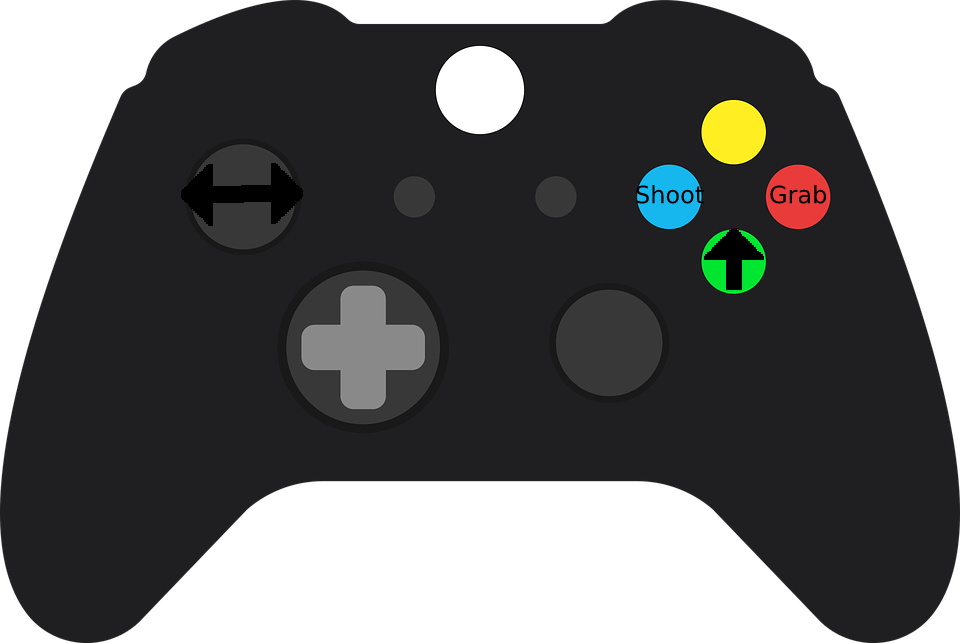
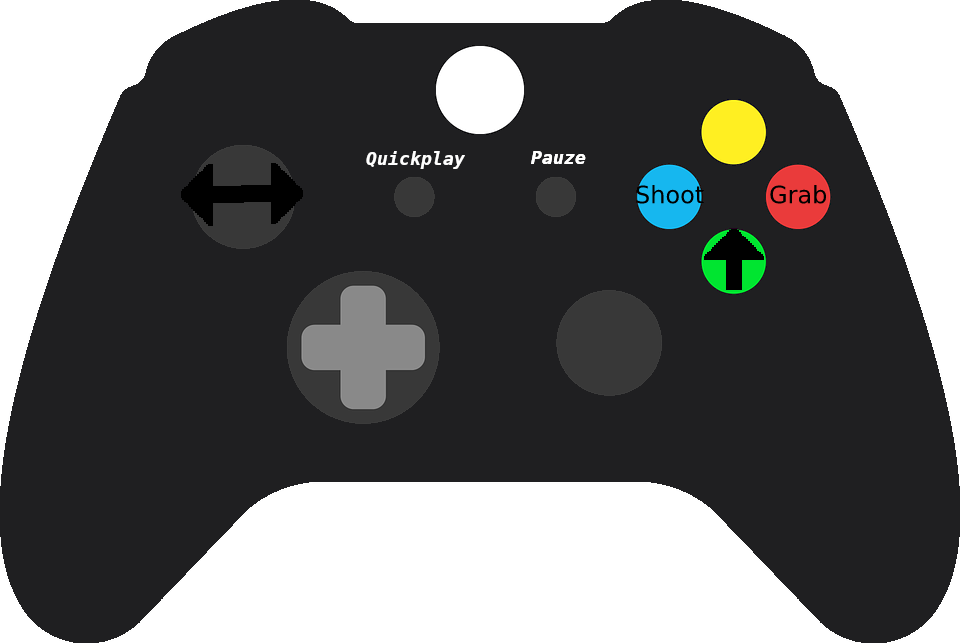
Added controller game start, toggable fps counter and fixed cheats (#85)
* Added dpad and gamespeed cheats

* Added controller shortcut to start a game

* Update cheat_system.cpp

* Added quickstart to image

* Added toggable fps counter and cheats on player 20

* Player 20 for gamespeed

* Fixed next level if intermission

* Fixed quickplay, submodule and fps counter false

* Improved start detection

* Updated graphics

diff --git a/lib/controllers/game_controller.cpp b/lib/controllers/game_controller.cpp
@@ -49,6 +49,7 @@ using namespace std::chrono_literals;
 #include "systems/cheat_system.hpp"
 #include "systems/hud_system.hpp"
 #include "systems/pause_system.hpp"
+#include "systems/ui_system.hpp"
 
 #include "entities/layers.hpp"
 #include "player_input.hpp"
@@ -85,6 +86,7 @@ using namespace std::chrono_literals;
 GameController::GameController() {
     this->should_quit = false;
     this->should_reset_delta_time = false;
+    this->should_draw_fps_counter = false;
 
     this->delta_time = 1;
 #ifdef PERFORMANCE_DEBUGGING
@@ -152,11 +154,12 @@ void GameController::setGameStateSystems() {
 
     // Menu
     state_systems->at(GameState::Menu)->push_back(std::make_unique<ClickSystem>(entityManager));
+    state_systems->at(GameState::Menu)->push_back(std::make_unique<UISystem>(entityManager, entityFactory, *this));
     state_systems->at(GameState::Menu)->push_back(std::make_unique<RenderingSystem>(entityManager, *engine->getRenderer()));
 
     // Lobby
     state_systems->at(GameState::Lobby)->push_back(std::make_unique<GameSpeedSystem>(entityManager, *delta_time_modifier.get()));
-    state_systems->at(GameState::Lobby)->push_back(std::make_unique<LobbySystem>(entityFactory, entityManager));
+    state_systems->at(GameState::Lobby)->push_back(std::make_unique<LobbySystem>(entityFactory, entityManager, *this));
     state_systems->at(GameState::Lobby)->push_back(std::make_unique<ClickSystem>(entityManager));
     state_systems->at(GameState::Lobby)->push_back(std::make_unique<MovementSystem>(*collision_detector, entityManager, entityFactory));
     state_systems->at(GameState::Lobby)->push_back(std::make_unique<PhysicsSystem>(*collision_detector, entityManager, *delta_time_modifier.get()));
@@ -256,10 +259,7 @@ void GameController::setupInput() {
     inputMapping[1][InputKeyCode::EKey_e] = PlayerInput::SHOOT;
     inputMapping[1][InputKeyCode::EKey_mouse_left] = PlayerInput::MOUSE_LEFT;
     inputMapping[1][InputKeyCode::EKey_mouse_right] = PlayerInput::MOUSE_RIGHT;
-    inputMapping[1][InputKeyCode::EKey_pagedown] = PlayerInput::SPEED_DOWN;
-    inputMapping[1][InputKeyCode::EKey_pageup] = PlayerInput::SPEED_UP;
-    inputMapping[1][InputKeyCode::EKey_home] = PlayerInput::SPEED_RESET;
-
+ 
     axis_mapping[InputKeyCode::EKey_w] = 1;
     axis_mapping[InputKeyCode::EKey_a] = -1;
     axis_mapping[InputKeyCode::EKey_s] = -1;
@@ -328,21 +328,29 @@ void GameController::setupInput() {
     inputMapping[4][InputKeyCode::EController_x] = PlayerInput::SHOOT;
     inputMapping[4][InputKeyCode::EController_b] = PlayerInput::GRAB;
     inputMapping[4][InputKeyCode::EController_start] = PlayerInput::PAUSE;
-
+    
     // Cheats
-    for (int i = 1; i <= 4; ++i) {
-        inputMapping[i][InputKeyCode::EKey_f1] = PlayerInput::SKIP_LEVEL;
-        inputMapping[i][InputKeyCode::EKey_f2] = PlayerInput::KILL_EVERYONE_EXCEPT_YOURSELF;
-        inputMapping[i][InputKeyCode::EKey_f3] = PlayerInput::INFINITE_HEALTH;
-        inputMapping[i][InputKeyCode::EKey_f4] = PlayerInput::RANDOM_WEAPON;
-        inputMapping[i][InputKeyCode::EKey_f5] = PlayerInput::LASER_WEAPON;
+    inputMapping[20][InputKeyCode::EKey_f1] = PlayerInput::SKIP_LEVEL;
+    inputMapping[20][InputKeyCode::EKey_f2] = PlayerInput::KILL_EVERYONE_EXCEPT_YOURSELF;
+    inputMapping[20][InputKeyCode::EKey_f3] = PlayerInput::INFINITE_HEALTH;
+    inputMapping[20][InputKeyCode::EKey_f4] = PlayerInput::RANDOM_WEAPON;
+    inputMapping[20][InputKeyCode::EKey_f5] = PlayerInput::LASER_WEAPON;
 
-        // Debugger
-        inputMapping[i][InputKeyCode::EKey_f5] = PlayerInput::REFRESH;
+    // Debugger
+    inputMapping[20][InputKeyCode::EKey_f6] = PlayerInput::REFRESH;
 
-        // Pause
+    inputMapping[20][InputKeyCode::EKey_f7] = PlayerInput::TOGGLE_FPS_COUNTER;
+
+    // Pause
+    for(int i = 1; i <= 4; ++i) {
+        inputMapping[i][InputKeyCode::EController_select] = PlayerInput::QUICK_PLAY;
         inputMapping[i][InputKeyCode::EKey_escape] = PlayerInput::PAUSE;
     }
+
+    // Gamespeed modifier
+    inputMapping[20][InputKeyCode::EKey_pageup] = PlayerInput::SPEED_UP;
+    inputMapping[20][InputKeyCode::EKey_pagedown] = PlayerInput::SPEED_DOWN;
+    inputMapping[20][InputKeyCode::EKey_home] = PlayerInput::SPEED_RESET;
 
     std::unordered_map<PlayerInput, double> time_to_wait_mapping;
     time_to_wait_mapping[PlayerInput::GRAB] = 0.1;
@@ -355,6 +363,7 @@ void GameController::setupInput() {
     time_to_wait_mapping[PlayerInput::RANDOM_WEAPON] = 0.1;
     time_to_wait_mapping[PlayerInput::KILL_EVERYONE_EXCEPT_YOURSELF] = 0.1;
     time_to_wait_mapping[PlayerInput::LASER_WEAPON] = 0.1;
+    time_to_wait_mapping[PlayerInput::TOGGLE_FPS_COUNTER] = 0.1;
     time_to_wait_mapping[PlayerInput::PAUSE] = 0.1;
 
     input.setInputMapping(inputMapping, time_to_wait_mapping, axis_mapping);
@@ -379,8 +388,14 @@ void GameController::gameLoop() {
         for (auto& system : game_state_manager->getSystems()) {
             system->update(delta_time);
         }
+        
+        auto& input = BrickInput<PlayerInput>::getInstance();
+        if(input.checkInput(20, PlayerInput::TOGGLE_FPS_COUNTER)) 
+            should_draw_fps_counter = !should_draw_fps_counter;
 
-        engine->drawFpsCounter();
+        if(should_draw_fps_counter)
+            engine->drawFpsCounter();
+
         engine->getRenderer()->drawScreen();
 
 #ifdef PERFORMANCE_DEBUGGING

diff --git a/lib/systems/cheat_system.cpp b/lib/systems/cheat_system.cpp
@@ -28,18 +28,18 @@ void CheatSystem::update(double deltatime) {
     }
 
     // Next scene
-    if(input.checkInput(player_id, PlayerInput::SKIP_LEVEL)) {
+    if(input.checkInput(20, PlayerInput::SKIP_LEVEL)) {
         game_controller.loadNextLevel();
     }
 
     // Infinite Health
-    if(input.checkInput(player_id, PlayerInput::INFINITE_HEALTH)) {
+    if(input.checkInput(20, PlayerInput::INFINITE_HEALTH)) {
         auto health_component = entityManager->getComponent<HealthComponent>(entity_id);
         health_component->health = std::numeric_limits<double>::infinity();
     }
 
     // Weapon drop
-    if(input.checkInput(player_id, PlayerInput::RANDOM_WEAPON)) {
+    if(input.checkInput(20, PlayerInput::RANDOM_WEAPON)) {
         auto transform_component = entityManager->getComponent<TransformComponent>(entity_id);
         auto comps = entity_factory->createWeaponDrop();
         int entity_id = entity_factory->addToEntityManager(std::move(comps));
@@ -49,7 +49,7 @@ void CheatSystem::update(double deltatime) {
     }
 
     // Godmode laser
-    if(input.checkInput(player_id, PlayerInput::LASER_WEAPON)) {
+    if(input.checkInput(20, PlayerInput::LASER_WEAPON)) {
         auto transform_component = entityManager->getComponent<TransformComponent>(entity_id);
         auto comps = entity_factory->createLaser();
         int entity_id = entity_factory->addToEntityManager(std::move(comps));
@@ -59,7 +59,7 @@ void CheatSystem::update(double deltatime) {
     }
 
     // Kill everyone except the first player
-    if(input.checkInput(player_id, PlayerInput::KILL_EVERYONE_EXCEPT_YOURSELF)) {
+    if(input.checkInput(20, PlayerInput::KILL_EVERYONE_EXCEPT_YOURSELF)) {
         for(auto& player : entityManager->getEntitiesByComponent<PlayerComponent>()) {
             if(player_id != player.second->player_id) {
                 // Die Die Die....
@@ -69,4 +69,10 @@ void CheatSystem::update(double deltatime) {
             }
         }
     }
+}
+
+void CheatSystem::reset() {
+    // Remove intermission if present
+    if (game_controller.getSceneManager().isSceneActive<IntermissionScene>())
+        game_controller.getSceneManager().destroyScene(IntermissionScene::getLayerStatic());
 }

diff --git a/lib/systems/game_speed_system.cpp b/lib/systems/game_speed_system.cpp
@@ -14,19 +14,19 @@ void GameSpeedSystem::update(double delta_time) {
     auto input = BrickInput<PlayerInput>::getInstance();
     bool modifier_changed = false;
 
-    if(input.checkInput(1, PlayerInput::SPEED_DOWN)) {
+    if(input.checkInput(20, PlayerInput::SPEED_DOWN)) {
         // Decrease game speed
         if(delta_time_modifier - step_size >= 0.5) {
             delta_time_modifier -= step_size;
             modifier_changed = true;
         }
-    } else if (input.checkInput(1, PlayerInput::SPEED_UP)) {
+    } else if (input.checkInput(20, PlayerInput::SPEED_UP)) {
         // Increase game speed
         if(delta_time_modifier + step_size <= 2.1) {
             delta_time_modifier += step_size;
             modifier_changed = true;
         }
-    } else if (input.checkInput(1, PlayerInput::SPEED_RESET)) {
+    } else if (input.checkInput(20, PlayerInput::SPEED_RESET)) {
         // Reset modifier
         delta_time_modifier = 1;
         modifier_changed = true;

diff --git a/lib/systems/lobby_system.cpp b/lib/systems/lobby_system.cpp
@@ -11,7 +11,8 @@
 #include "brickengine/components/player_component.hpp"
 #include "brickengine/json/json.hpp"
 
-LobbySystem::LobbySystem(std::shared_ptr<EntityFactory> ef, std::shared_ptr<EntityManager> em) : BeastSystem(ef, em), ef(ef), em(em) { };
+LobbySystem::LobbySystem(std::shared_ptr<EntityFactory> ef, std::shared_ptr<EntityManager> em, GameController& gc)
+    : game_controller(gc), BeastSystem(ef, em), ef(ef), em(em) { };
 
 void LobbySystem::update(double) {
     auto& input = BrickInput<PlayerInput>::getInstance();
@@ -285,6 +286,11 @@ void LobbySystem::update(double) {
             }
         }
     }
+
+    // Start tha game
+    for(int i = 1; i <= 4; ++i)
+        if(input.checkInput(1, PlayerInput::QUICK_PLAY))
+            game_controller.startGame();
 }
 
 void LobbySystem::reset() {

diff --git a/include/systems/lobby_system.hpp b/include/systems/lobby_system.hpp
@@ -6,17 +6,19 @@
 #include <string>
 
 #include "systems/beast_system.hpp"
+#include "controllers/game_controller.hpp"
 #include "entities/entity_factory.hpp"
 #include "enums/character.hpp"
 
 class LobbySystem : public BeastSystem {
 public:
-    LobbySystem(std::shared_ptr<EntityFactory> ef, std::shared_ptr<EntityManager> em);
+    LobbySystem(std::shared_ptr<EntityFactory> ef, std::shared_ptr<EntityManager> em, GameController& gc);
     void update(double deltatime);
     void reset();
 private:
     std::shared_ptr<EntityFactory> ef;
     std::shared_ptr<EntityManager> em;
+    GameController& game_controller;
 
     std::vector<std::pair<Character, bool>> picked_characters;
     std::vector<std::pair<std::string, bool>> picked_names;

diff --git a/lib/systems/ui_system.cpp b/lib/systems/ui_system.cpp
@@ -1,0 +1,14 @@
+#include "brickengine/input.hpp"
+
+#include "systems/ui_system.hpp"
+#include "player_input.hpp"
+
+UISystem::UISystem(std::shared_ptr<EntityManager> em, std::shared_ptr<EntityFactory> ef, GameController& gc)
+    : game_controller(gc), BeastSystem(ef, em) {}
+
+void UISystem::update(double deltatime) {
+    auto& input = BrickInput<PlayerInput>::getInstance();
+    for(int i = 1; i <= 4; ++i)
+        if(input.checkInput(i, PlayerInput::QUICK_PLAY))
+            game_controller.loadLobby();
+}

diff --git a/include/systems/ui_system.hpp b/include/systems/ui_system.hpp
@@ -1,0 +1,16 @@
+#ifndef FILE_UI_SYSTEM_HPP
+#define FILE_UI_SYSTEM_HPP
+
+#include "systems/beast_system.hpp"
+
+#include "controllers/game_controller.hpp"
+
+class UISystem : public BeastSystem {
+public:
+    UISystem(std::shared_ptr<EntityManager> em, std::shared_ptr<EntityFactory> ef, GameController& gc);
+    void update(double delta_time);
+private:
+    GameController& game_controller;
+};
+
+#endif // FILE_UI_RESPAWN_SYSTEM_HPP 

diff --git a/include/systems/cheat_system.hpp b/include/systems/cheat_system.hpp
@@ -4,11 +4,13 @@
 #include "systems/beast_system.hpp"
 
 #include "controllers/game_controller.hpp"
+#include "scenes/intermission_scene.hpp"
 
 class CheatSystem : public BeastSystem {
 public:
     CheatSystem(std::shared_ptr<EntityManager> em, std::shared_ptr<EntityFactory> ef, GameController& gc);
     void update(double delta_time);
+    void reset();
 private:
     GameController& game_controller;
 };

diff --git a/include/controllers/game_controller.hpp b/include/controllers/game_controller.hpp
@@ -43,6 +43,7 @@ public:
 private:
     bool should_quit;
     bool should_reset_delta_time;
+    bool should_draw_fps_counter;
 
     void createGameStateManager();
     void setGameStateSystems();

diff --git a/include/player_input.hpp b/include/player_input.hpp
@@ -22,6 +22,9 @@ enum PlayerInput {
     RANDOM_WEAPON,
     LASER_WEAPON,
     KILL_EVERYONE_EXCEPT_YOURSELF,
+
+    TOGGLE_FPS_COUNTER,
+    QUICK_PLAY
 };
 
  #endif // FILE_PLAYER_INPUT_HPP
